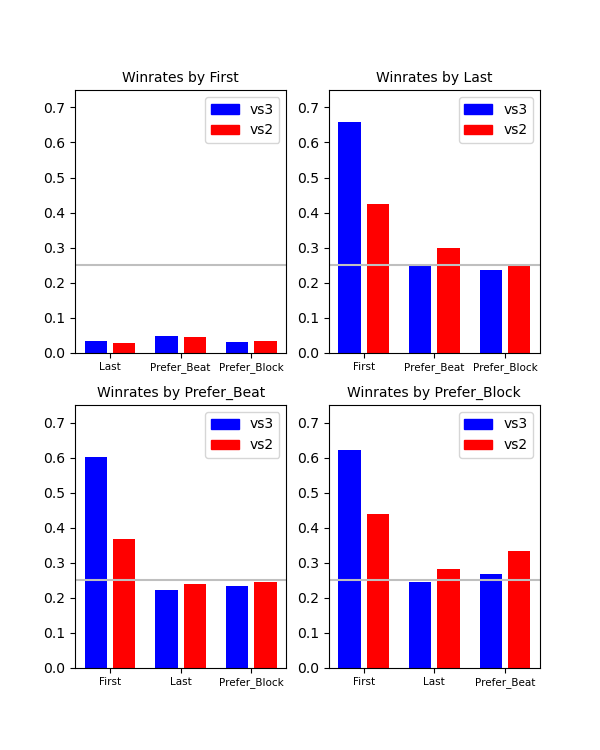
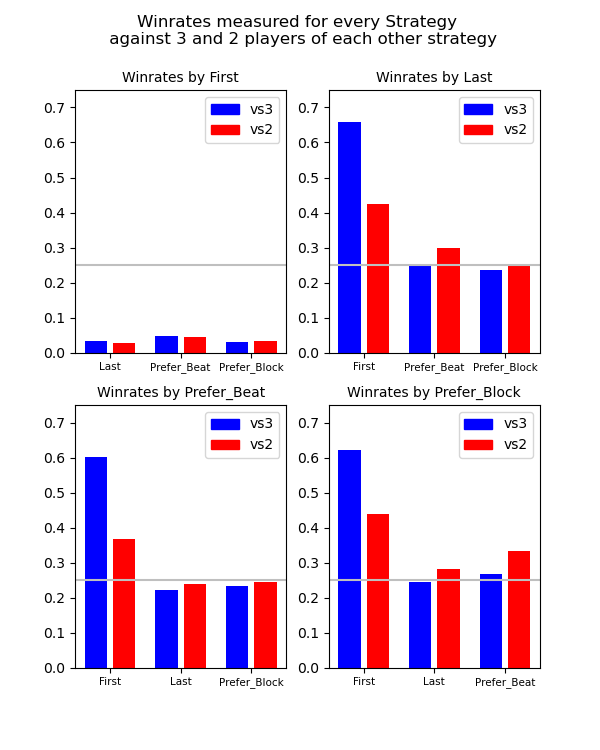
done

Changed region(s): [[0.18, 0.0, 0.84, 0.0613]]

diff --git a/src/python_eval/plots.py b/src/python_eval/plots.py
@@ -6,6 +6,7 @@ import matplotlib.pyplot as plt
 import os 
 from copy import deepcopy 
 from pathlib import Path
+import numpy as np
 
 
 
@@ -36,9 +37,10 @@ class Harry_Plotter():
         return df_observed
 
     def create_plots(self,):
-       self.plot_winrate()
-    # self.plot_blocks_by_avg_turns(obs)
-    
+        self.plot_winrate()
+        self.plot_blocks_by_avg_turns()
+        self.plot_beats_by_avg_turns()
+
     def plot_winrate(self):
         fig,ax = plt.subplots(nrows= 2 ,ncols = 2,figsize = (6,7.5))
         for i,observer in enumerate(self.observer_sim_dic.keys()):
@@ -58,19 +60,86 @@ class Harry_Plotter():
             c_axis.set_xticklabels(enemy_list,fontsize = 7.5)
             c_axis.set_ylim((0,0.75))
             c_axis.set_title(f"Winrates by {observer}",fontsize = 10)
-            colors = ['blue','red']
+            colors = ['b','r']
             handles = [plt.Rectangle((0,0),1,1, color=color) for color in colors]
             c_axis.legend(handles,["vs3", "vs2"],loc = 'upper right')
             c_axis.axhline(y = 0.25,color = '0.75')
+            plt.suptitle("Winrates measured for every Strategy \n against 3 and 2 players of each other strategy")
             plt.savefig(self.path_plot_dir.joinpath("plots/winrate_plot.png"),dpi = fig.dpi)
-    def plot_blocks_by_avg_turns():
-        pass
-    def plot_beats_by_avg_turns():
-        pass
-    def plots_got_kicked_by_avg_turns():
-        pass
-    def __by_avg_turns__():
-        pass
+
+    def plot_blocks_by_avg_turns(self):
+        fig,ax = plt.subplots(nrows = 2, ncols = 2, figsize = (8,7.5))
+        for i,observer in enumerate(self.observer_sim_dic.keys()):   
+            x_axis = 0
+            if i>1 : x_axis = 1
+            y_axis =i%2
+            c_axis = ax[x_axis][y_axis]
+            subdata = self.observer_sim_dic.get(observer)
+            enemy_list = deepcopy(self.strategies)
+            enemy_list.remove(observer)
+            #data prep
+            positions = [0,1.25,2.5]
+            avg_turns_by_obs3,avg_turns_by_obs2 = self.extract_data_vs3_vs2(observer,subdata,enemy_list,"Turns to Finish")
+            avg_blocks3,avg_blocks2 = self.extract_data_vs3_vs2(observer,subdata,enemy_list,"Average Blocks Created")
+            #most_blocks3, most_blocks2= self.extract_data_vs3_vs2(observer,subdata,enemy_list,"Game most Blocks")
+            weighted_avg_blocks3 = [avg_blocks3[i]/avg_turns_by_obs3[i]for i in range(len(avg_blocks3))]
+            weighted_avg_blocks2 = [avg_blocks2[i]/avg_turns_by_obs2[i]for i in range(len(avg_blocks2))]
+            #weighted_most_blocks3 = [most_blocks3[i]/avg_turns_by_obs3[i] for i in range(len(most_blocks3))]
+            #weighted_most_blocks2 = [most_blocks2[i]/avg_turns_by_obs2[i] for i in range(len(most_blocks2))] 
+
+            c_axis.bar(positions,weighted_avg_blocks3,width = 0.2,color = 'b')
+            #c_axis.bar([position+0.25 for position in positions],weighted_most_blocks3,width = 0.2,color = 'c')
+            #c_axis.bar([position+0.75 for position in positions],weighted_most_blocks2,width = 0.2,color = 'orange')
+            c_axis.bar([position+0.5 for position in positions],weighted_avg_blocks2,width = 0.2, color = 'r')
+            x_ticks = [0.34,1.88,3.42]
+            c_axis.set_xticks(x_ticks)
+            c_axis.set_xticklabels(enemy_list,fontsize = 7.5)
+            c_axis.set_title(f"{observer}",fontsize = 10)
+            colors = ['r','b']
+            handles = [plt.Rectangle((0,0),1,1, color=color) for color in colors]
+            c_axis.legend(handles,["vs3", "vs2"],loc = 'upper right')
+            #c_axis.set_ylim
+        plt.suptitle("'Average blocks'/'Turns to Finish")
+        plt.savefig(self.path_plot_dir.joinpath("plots/block_by_turns.png"),dpi = fig.dpi)
+
+
+    def plot_beats_by_avg_turns(self):
+        
+        fig,ax = plt.subplots(nrows = 2, ncols = 2, figsize = (8,7.5))
+        for i,observer in enumerate(self.observer_sim_dic.keys()):   
+            x_axis = 0
+            if i>1 : x_axis = 1
+            y_axis =i%2
+            c_axis = ax[x_axis][y_axis]
+            subdata = self.observer_sim_dic.get(observer)
+            enemy_list = deepcopy(self.strategies)
+            enemy_list.remove(observer)
+            #data prep
+            positions = [0,1.25,2.5]
+            avg_turns_by_obs3,avg_turns_by_obs2 = self.extract_data_vs3_vs2(observer,subdata,enemy_list,"Turns to Finish")
+            avg_beats3,avg_beats2 = self.extract_data_vs3_vs2(observer,subdata,enemy_list,"Average Kicks")
+            most_beats3, most_beats2 = self.extract_data_vs3_vs2(observer, subdata, enemy_list, "Game most Kicks")
+          
+            weighted_avg_beats3 = [avg_beats3[i]/avg_turns_by_obs3[i]for i in range(len(avg_beats3))]
+            weighted_avg_beats2 = [avg_beats2[i]/avg_turns_by_obs2[i]for i in range(len(avg_beats2))]
+            weighted_most_beats3 = [most_beats3[i]/avg_turns_by_obs3[i] for i in range(len(most_beats3))]
+            weighted_most_beats2 = [most_beats2[i]/avg_turns_by_obs2[i] for i in range(len(most_beats2))] 
+
+            c_axis.bar(positions,weighted_avg_beats3,width = 0.2,color = 'b')
+            c_axis.bar([position+0.25 for position in positions],weighted_most_beats3,width = 0.2,color = 'c')
+            c_axis.bar([position+0.75 for position in positions],weighted_most_beats2,width = 0.2,color = 'r')
+            c_axis.bar([position+0.5 for position in positions],weighted_avg_beats2,width = 0.2, color = 'orange')
+            x_ticks = [0.34,1.88,3.42]
+            c_axis.set_xticks(x_ticks)
+            c_axis.set_xticklabels(enemy_list,fontsize = 7.5)
+            c_axis.set_title(f"{observer}",fontsize = 10)
+            colors = ['c','orange']
+            handles = [plt.Rectangle((0,0),1,1, color=color) for color in colors]
+            c_axis.legend(handles,["vs3", "vs2"],loc = 'upper right')
+            #c_axis.set_ylim
+        #plt.suptitle("'Average blocks'/'Turns to Finish")
+        #plt.savefig(self.path_plot_dir.joinpath("plots/block_by_turns.png"),dpi = fig.dpi)
+        plt.show()
 
     def extract_data_vs3_vs2(self,observer: str,subdata: pd.DataFrame, enemy_list : list, column : str)-> tuple:
         # function extracts data for every opponent strategy for a given observer. extracts the given column in the dataframe for the given data.
@@ -79,11 +148,9 @@ class Harry_Plotter():
         #                                           first, pref_bl, pref_bl, pref_bl .......
         vs3 = []
         vs2 = []
-        counted_enemy = []
         for enemy in enemy_list:
             vs3.append([strat for strat in subdata["Strategies"].tolist() if strat.count(enemy)==3][0])   
             vs2.append([strat for strat in subdata["Strategies"].tolist() if strat.count(enemy)==2][0])
-            counted_enemy.append(enemy)
         v3_extracted_data = [subdata.loc[subdata['Strategies'] == strat].reset_index().at[0,column] for strat in vs3]
         v2_extracted_data = [subdata.loc[subdata['Strategies'] == strat].reset_index().at[0,column] for strat in vs2]
 
@@ -108,5 +175,6 @@ if __name__ == "__main__" :
     # plot winrate vs 3/2x Strat a  --> 4x3x2 Balken DONE
     # kicks/max kicks in relation zu Turns to Finish 
     # blocks / max blocks in relation tu Turns to finish
-    col_names = ["Strategies","Winrate","Average Placement","Average Turns per Game", "Turns to Finish","Average Blocks Created","Average Kicks",
-                          "Average got Kicked","Game most Kicks","Game most Blocks","Game most got Kicked"]
+    col_names = ["Strategies","Winrate","Average Placement","Average Turns per Game", 
+                "Turns to Finish","Average Blocks Created","Average Kicks",
+                "Average got Kicked","Game most Kicks","Game most Blocks","Game most got Kicked"]
